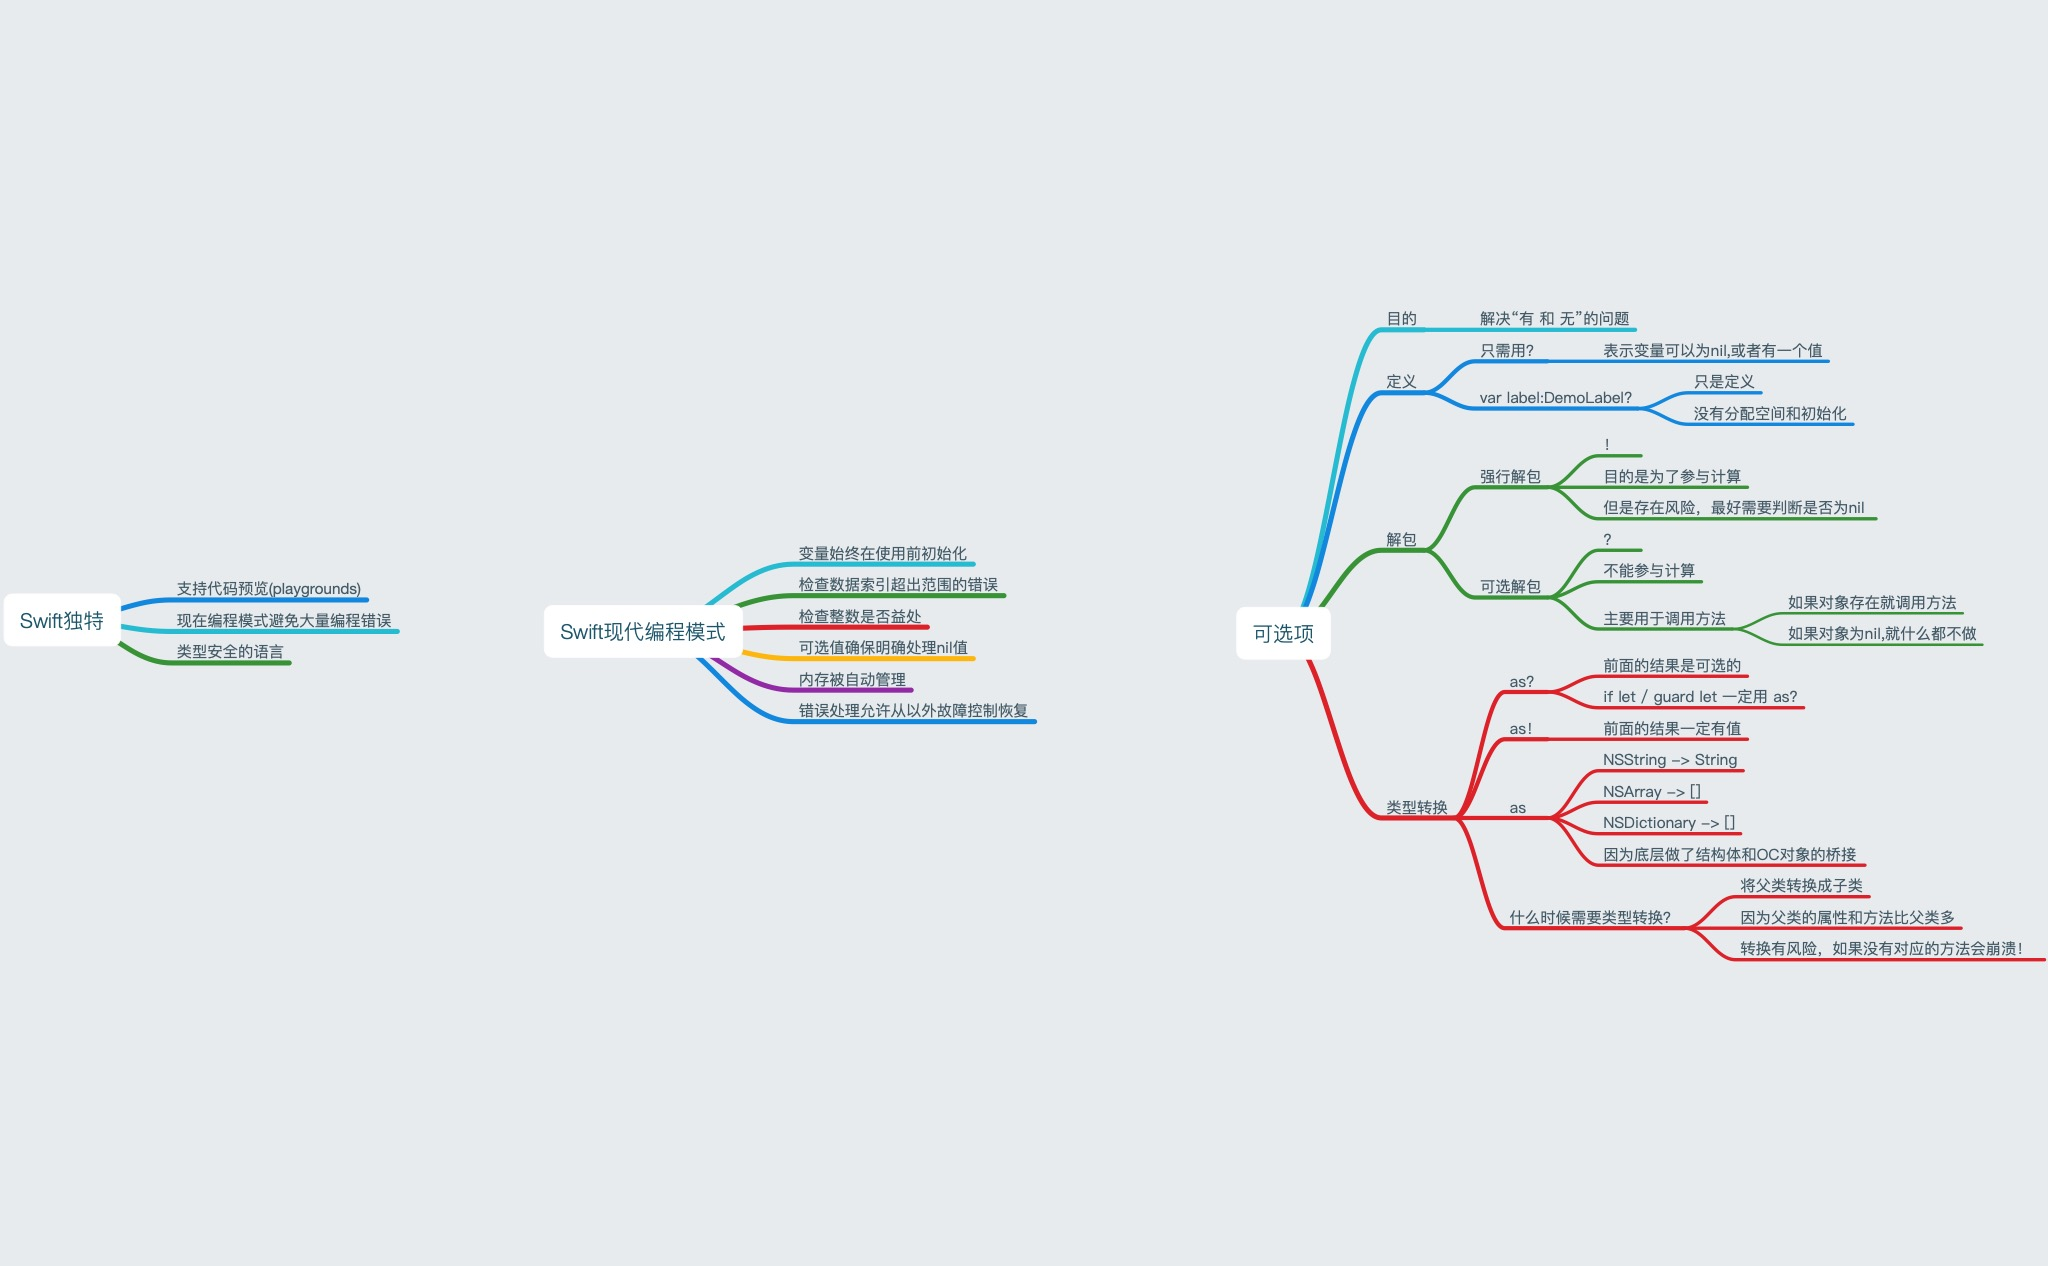
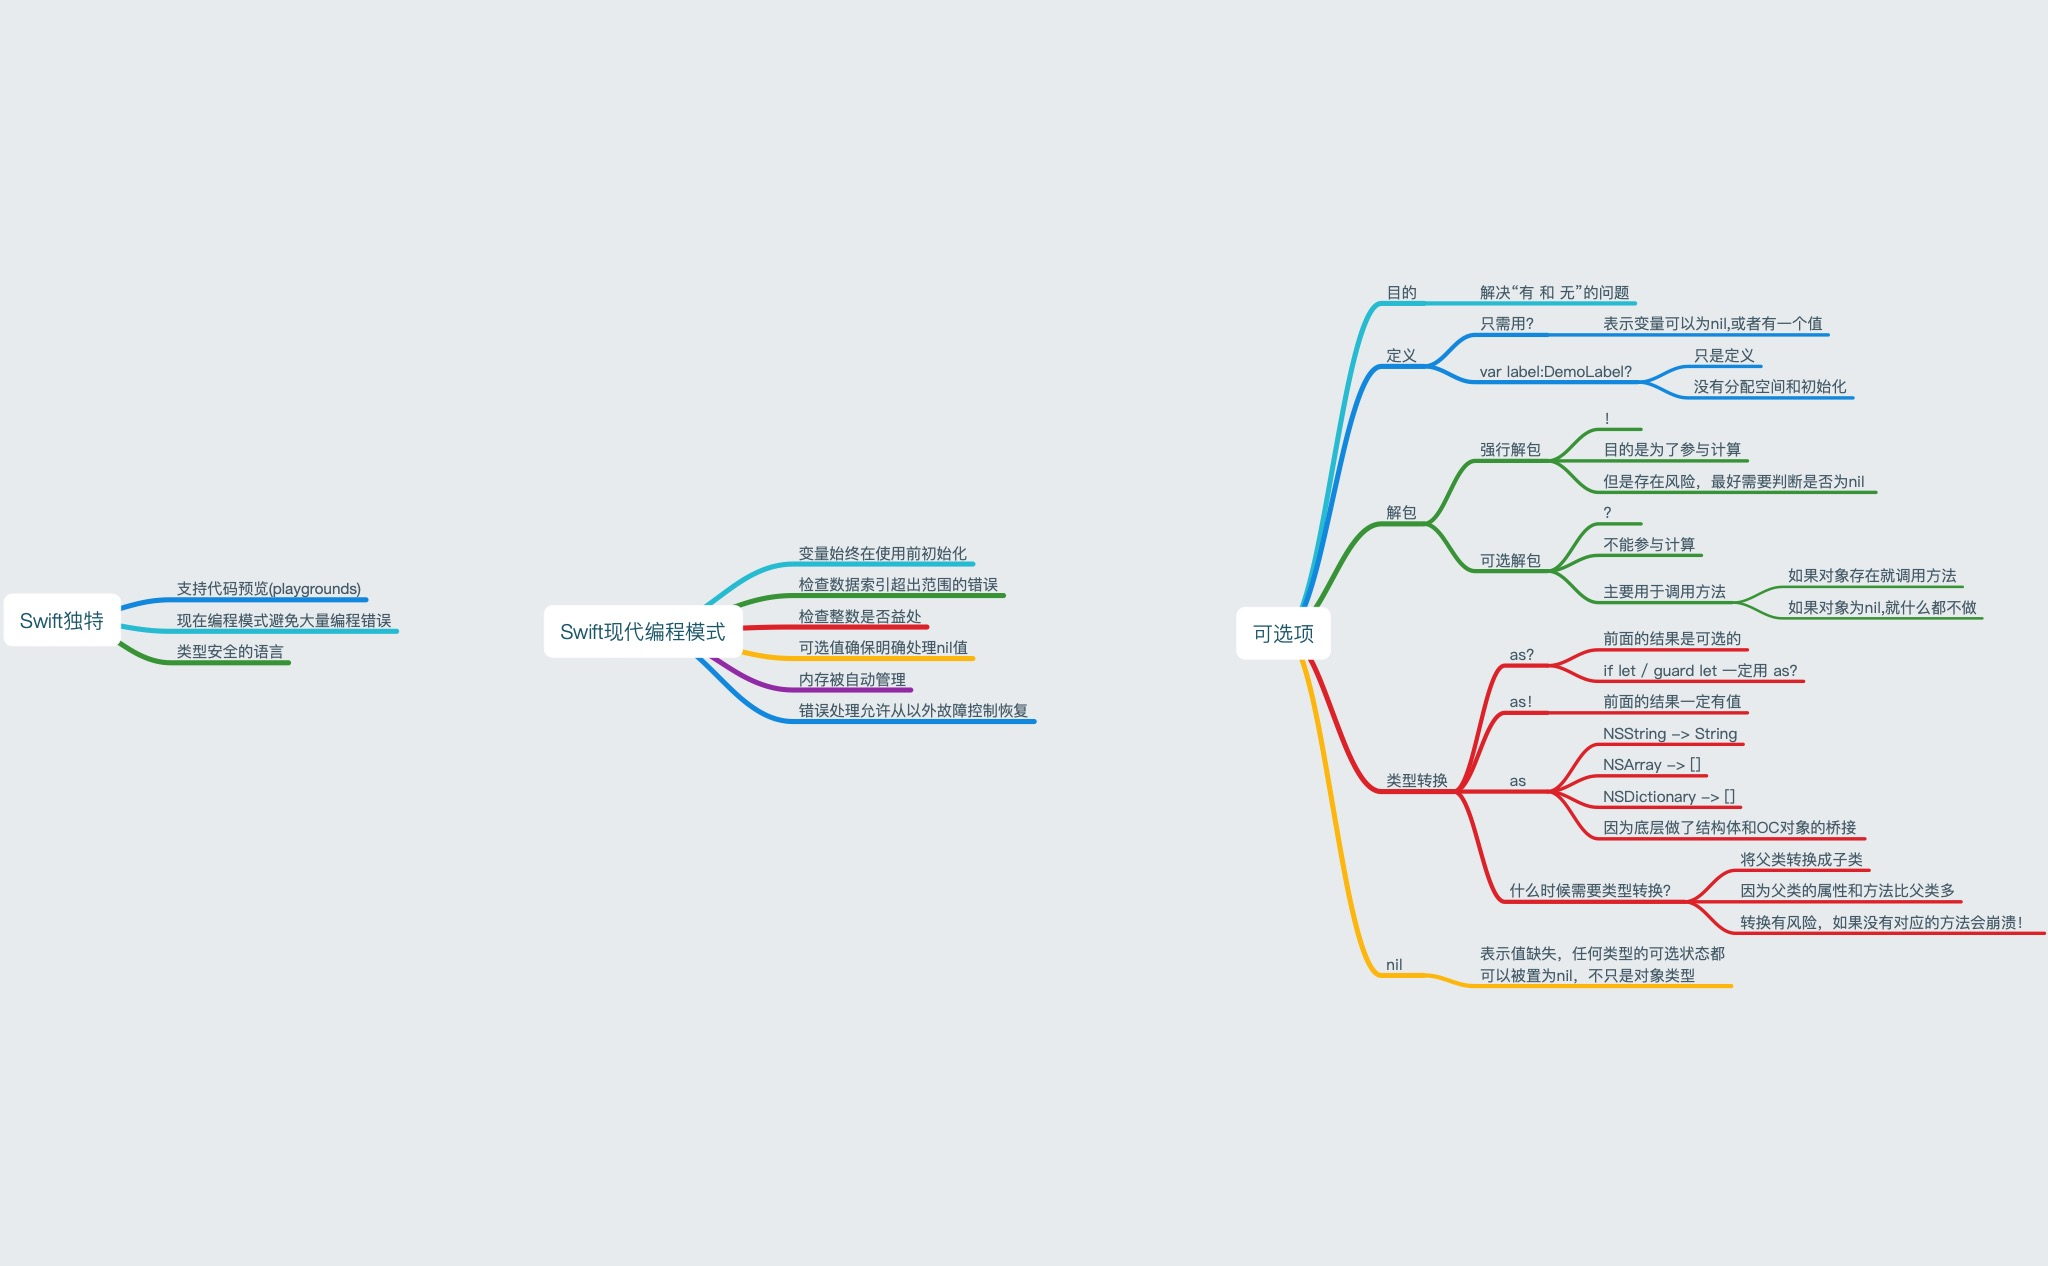
AMBasicsPart3 完善

Changed region(s): [[0.625, 0.2156, 1.0, 0.8009], [0.6562, 0.7085, 0.6875, 0.7701]]

diff --git a/AMSwift51Practice/基础部分/AMBasicsPart3.swift b/AMSwift51Practice/基础部分/AMBasicsPart3.swift
@@ -10,6 +10,8 @@ import Foundation
 class AMBasicsPart3: NSObject {
     func SetupTest() {
         Test()
+        Test1()
+        Test2()
     }
     ///-----------------------------元组-----------------------------///
     func Test() {
@@ -42,6 +44,67 @@ class AMBasicsPart3: NSObject {
         // 输出“The status code is 200”
         print("The status message is \(http200Status.description)")
         // 输出“The status message is OK”
+    }
+    ///-------------------可选类型 & if 语句以及强制解析 ---------------------///
+    func Test1() {
+        let possibleNumber = "123"
+        let convertedNumber = Int(possibleNumber)
+        // convertedNumber 被推测为类型 "Int?"， 或者类型 "optional Int"
+        print(convertedNumber!)
+        
+        // 你可以给可选变量赋值为 nil 来表示它没有值：
+        var serverResponseCode: Int? = 404
+        // serverResponseCode 包含一个可选的 Int 值 404
+        serverResponseCode = nil
+        // serverResponseCode 现在不包含值
+        print(serverResponseCode ?? "")
+        
+        /* nil 不能用于非可选的常量和变量。
+        如果你的代码中有常量或者变量需要处理值缺失的情况，请把它们声明成对应的可选类型。*/
+        
+        /* Swift 的 nil 和 Objective-C 中的 nil 并不一样。
+        在 Objective-C 中，nil 是一个指向不存在对象的指针。
+        在 Swift 中，nil 不是指针——它是一个确定的值，用来表示值缺失。
+        任何类型的可选状态都可以被设置为 nil，不只是对象类型。*/
+        
+        // 如果可选类型有值，它将不等于 nil：
+        if convertedNumber != nil {
+            print("convertedNumber contains some integer value.")
+        }
+        /* 当你确定可选类型确实包含值之后，你可以在可选的名字后面加一个感叹号（!）来获取值。
+         这个惊叹号表示“我知道这个可选有值，请使用它。”这被称为可选值的强制解析（forced unwrapping）：*/
+        if convertedNumber != nil {
+            print("convertedNumber has an integer value of \(convertedNumber!).")
+        }
+        // 输出“convertedNumber has an integer value of 123.”
+    }
+    
+    ///------------------------可选绑定------------------------------///
+    func Test2() {
+        let possibleNumber = "100"
+        
+        if let actualNumber = Int(possibleNumber) {
+            print("\'\(possibleNumber)\' has an integer value of \(actualNumber)")
+        } else {
+            print("\'\(possibleNumber)\' could not be converted to an integer")
+        }
+        // 输出“'123' has an integer value of 123”
+        
+        /* 你可以包含多个可选绑定或多个布尔条件在一个 if 语句中，只要使用逗号分开就行。
+         只要有任意一个可选绑定的值为 nil，或者任意一个布尔条件为 false，则整个 if 条件判断为 false。*/
+        if let firstNumber = Int("4"), let secondNumber = Int("42"), firstNumber < secondNumber && secondNumber < 100 {
+            print("\(firstNumber) < \(secondNumber) < 100")
+        }
+        // 输出“4 < 42 < 100”
+
+        if let firstNumber = Int("4") {
+            if let secondNumber = Int("42") {
+                if firstNumber < secondNumber && secondNumber < 100 {
+                    print("\(firstNumber) < \(secondNumber) < 100")
+                }
+            }
+        }
+        // 输出“4 < 42 < 100”
     }
     
 }
